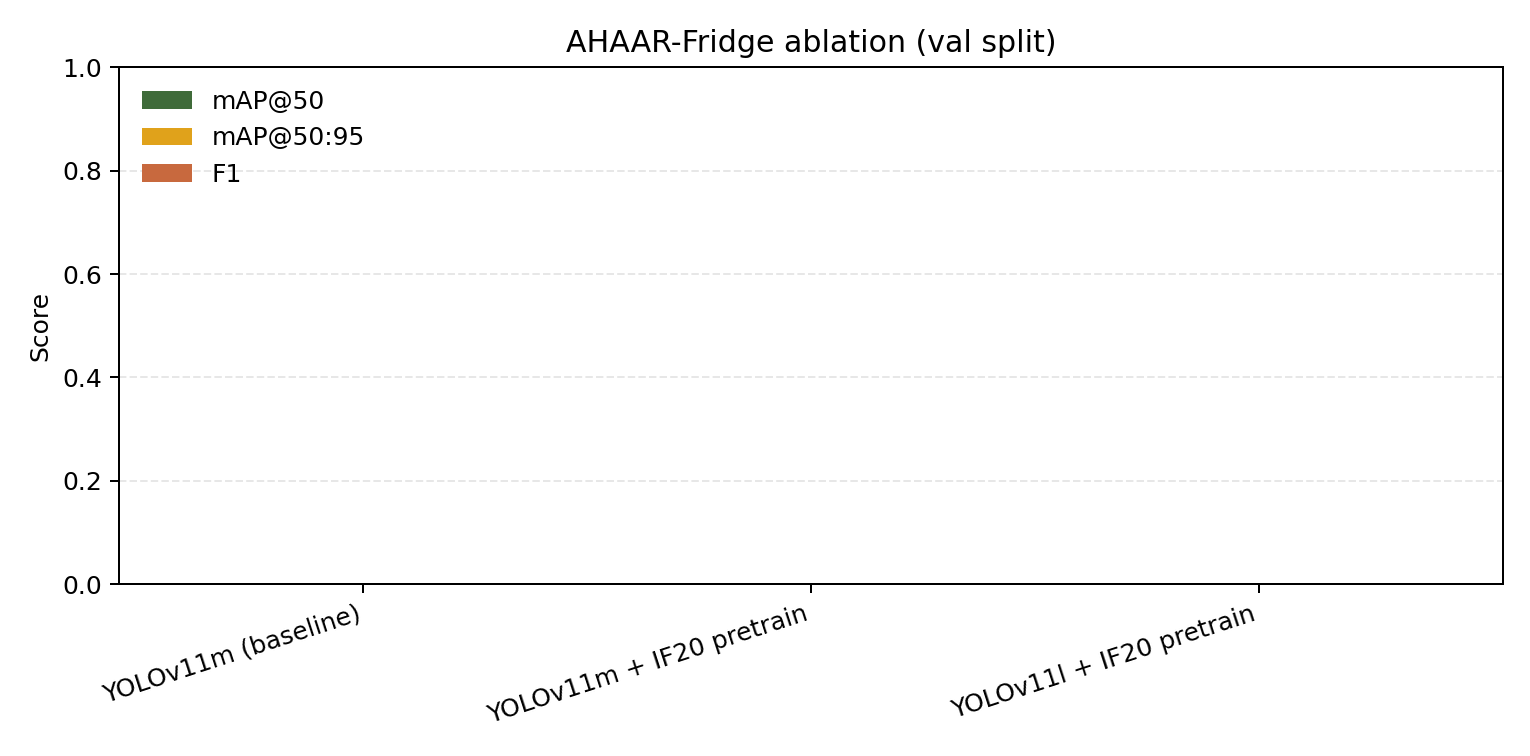
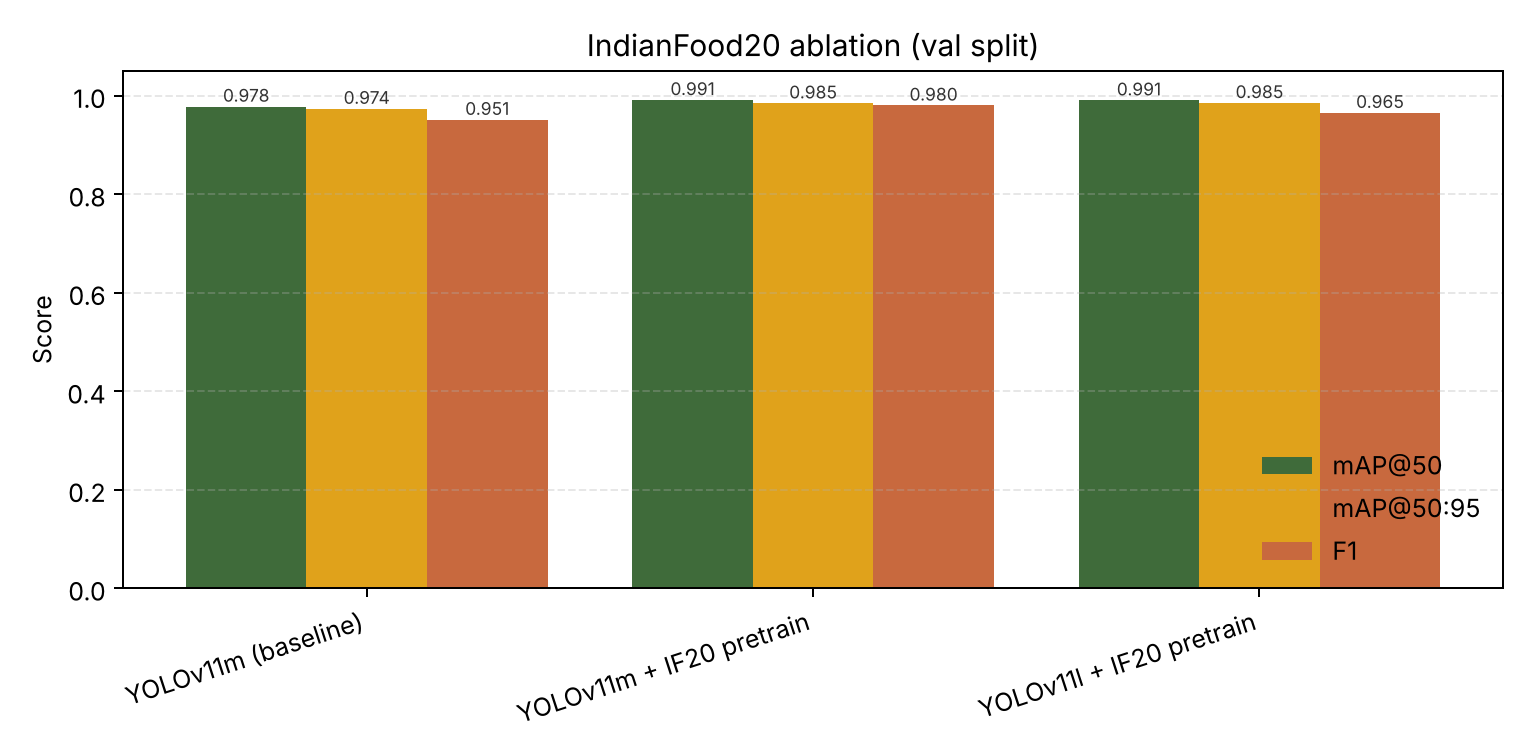
report: regenerate ablation bars, document 8-of-20 IF20 coverage
- ablation_bars.png was committed blank: generated before the CSV had
  real numbers. Regenerate from report/ablation.csv so the bars show
  the measured 0.978 / 0.991 / 0.991 mAP@50 values with per-bar labels.
- plot.py title changed from "AHAAR-Fridge" to "IndianFood20" to match
  the actual data source after the ablation was retargeted.
- Scope caveat and per-class figure caption now call out that only
  eight of the twenty whitelisted IF20 folders were populated in the
  Kaggle drop (chapati, chole_bhature, dal_makhani, fried_rice, idli,
  jalebi, pav_bhaji, samosa); the other twelve appear at 0.00 in
  Fig. per-class because the val split has no samples for them.

Claude-Session: https://claude.ai/code/session_01JFMuT2GMMMHtmxoUxQaLqr

diff --git a/report/main.tex b/report/main.tex
@@ -622,6 +622,14 @@ could complete within the project's timeline. Two consequences follow:
         comparable detection numbers on ingredient-level
         AHAAR-Fridge annotations will be lower and are deferred to
         future work.
+  \item Only eight of the twenty whitelisted IF20 class folders
+        were populated in the Kaggle drop used for this study, so
+        all per-class numbers in Fig.~\ref{fig:per-class} and the
+        aggregate mAP in Table~\ref{tab:ablation-results} describe
+        performance over those eight classes only. The remaining
+        twelve are listed at 0.00 because the val split contains
+        no samples for them; this is a dataset-availability
+        limitation, not a model failure.
   \item The production detector served to the AHAAR frontend in
         \S\ref{sec:architecture} is a separate, larger model
         trained prior to this study on the merged fruit-vegetable
@@ -722,7 +730,12 @@ YOLOv11m + IF20 pretrain is the Pareto-dominant configuration.}
 \centering
 \includegraphics[width=0.96\linewidth]{figures/ahaar_per_class_bars.png}
 \caption{Per-class mAP@50 on the IF20 val split for the winning
-YOLOv11m + IF20 pretrain cell, sorted descending. Twenty classes.}
+YOLOv11m + IF20 pretrain cell, sorted descending. Eight of the
+twenty whitelisted classes carried images in the Kaggle drop used
+for this study (\emph{chapati, chole\_bhature, dal\_makhani, fried\_rice,
+idli, jalebi, pav\_bhaji, samosa}); the remaining twelve are shown
+at 0.00 because they contain no val samples, and re-fetching the
+full twenty-folder split is deferred to future work.}
 \label{fig:per-class}
 \end{figure}
 

diff --git a/training/plot.py b/training/plot.py
@@ -75,7 +75,7 @@ def plot_ablation_bars() -> None:
     ax.set_xticklabels(labels, rotation=18, ha="right")
     ax.set_ylim(0, 1.0)
     ax.set_ylabel("Score")
-    ax.set_title("AHAAR-Fridge ablation (val split)")
+    ax.set_title("IndianFood20 ablation (val split)")
     ax.legend(loc="upper left", frameon=False)
     ax.grid(axis="y", linestyle="--", alpha=0.3)
     fig.tight_layout()
